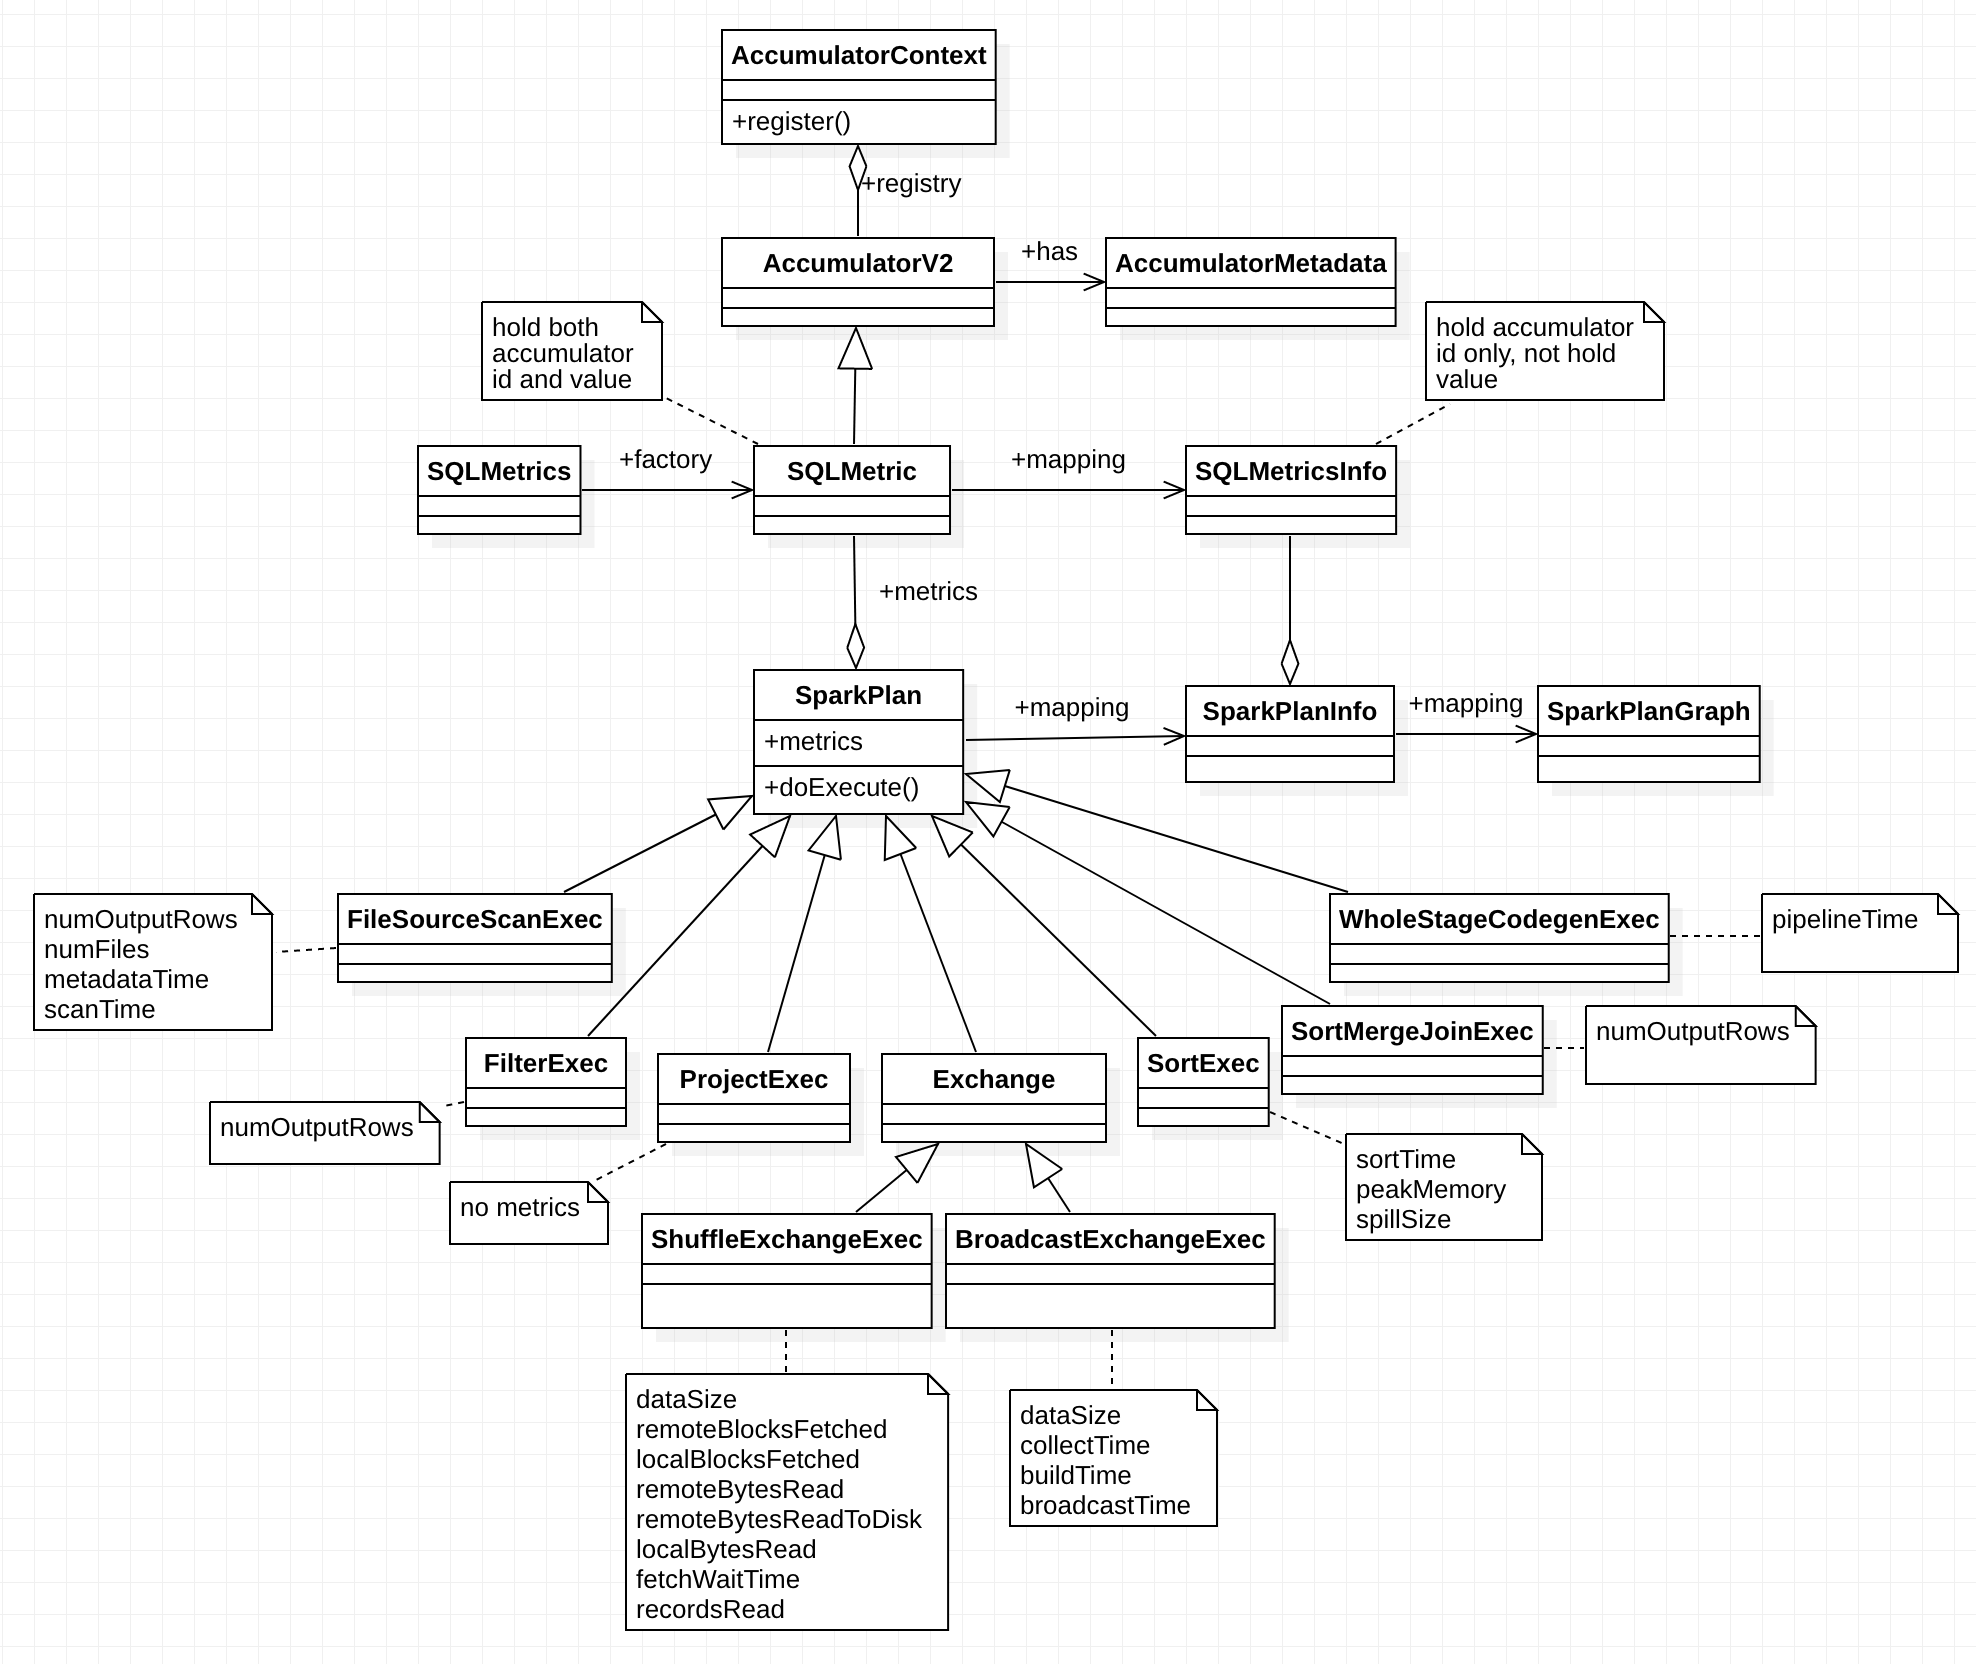
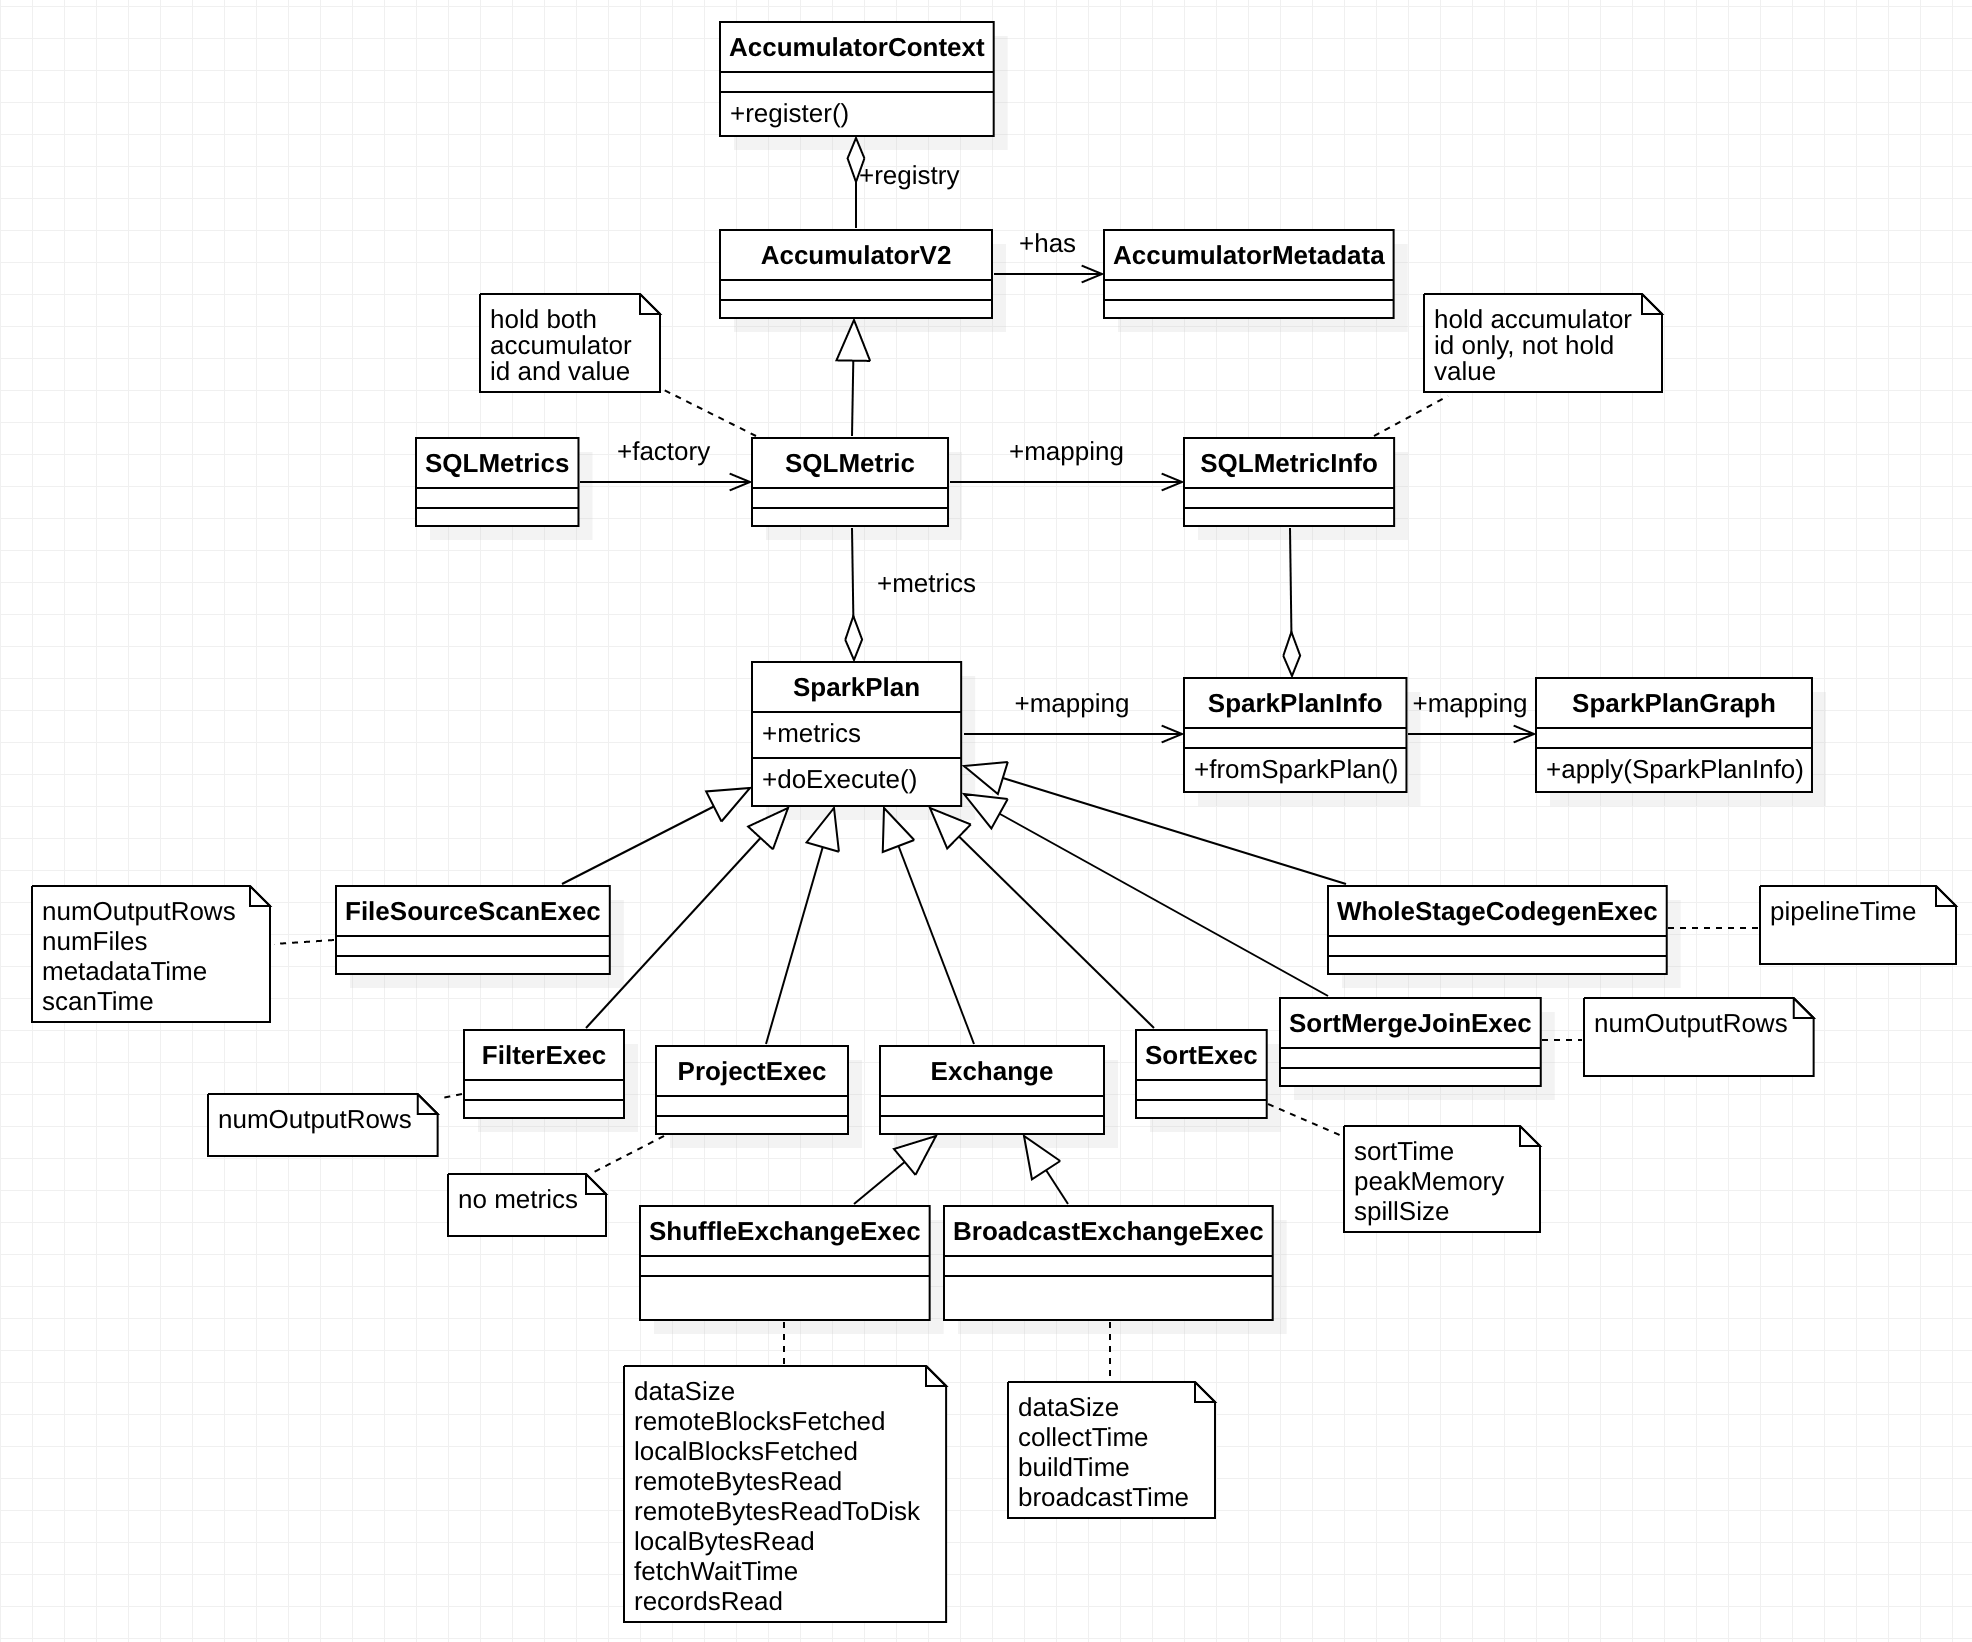
consolidate SQL metrics

diff --git a/docs/cross-component/metrics/metrics.md b/docs/cross-component/metrics/metrics.md
@@ -4,9 +4,15 @@
 
 
 ## Design and Implementation
+
+### SQL Metrics
 SQL metrics classes relationship:
 
 ![SQL metrics](sql-metrics.png)
+
+`SQLMetric` is a metric used in a SQL query plan. This is implemented as an `AccumulatorV2`. Updates
+on the executor side are automatically propagated and shown in the SQL UI through metrics. Updates
+on the driver side must be explicitly posted using `SQLMetrics.postDriverMetricUpdates()`.
 
 `SQLMetric` is kind of `AccumulatorV2`, which holds `AccumulatorMetadata` including `id`, `name` and
 etc. `SQLMetrics` is the static factory to create `SQLMetric`. It deals with details of size and
@@ -16,13 +22,12 @@ Physical operators (`SparkPlan`) hold metrics of type `SQLMetric`. Different ope
 different collection of metrics. Some operators even have no metrics at all, e.g. `ProjectExec`.
 Physical operator metrics are updated during its execution within `doExecute` method.
 
-When `SparkPlan` is mapped to `SparkPlanInfo`, which is further mapped to
-`SparkPlanGraph` for Web Display, `SQLMetric` is mapped to `SQLMetricInfo`, which holds accumulator
-id.
+When `SparkPlan` is mapped to `SparkPlanInfo`, which is further mapped to `SparkPlanGraph`,
+`SQLMetric` is mapped to `SQLMetricInfo`, which holds accumulator id.
 
 ## Evolution
 
-[SPARK-26221 Improve Spark SQL instrumentation and metrics](https://issues.apache.org/jira/browse/SPARK-26221)
+* [SPARK-26221 Improve Spark SQL instrumentation and metrics](https://issues.apache.org/jira/browse/SPARK-26221)
 
 ## Coding
 
